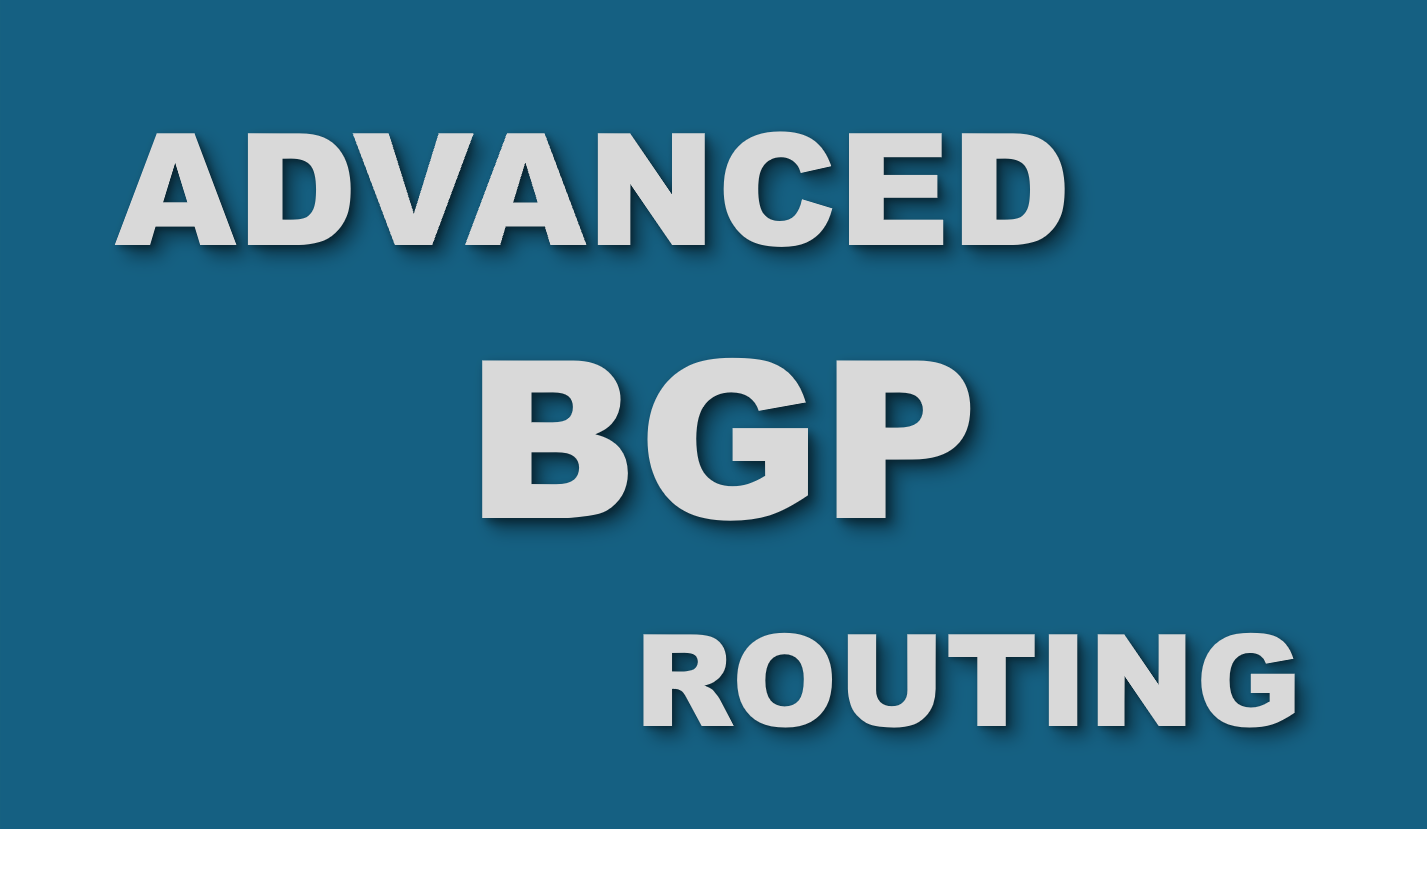
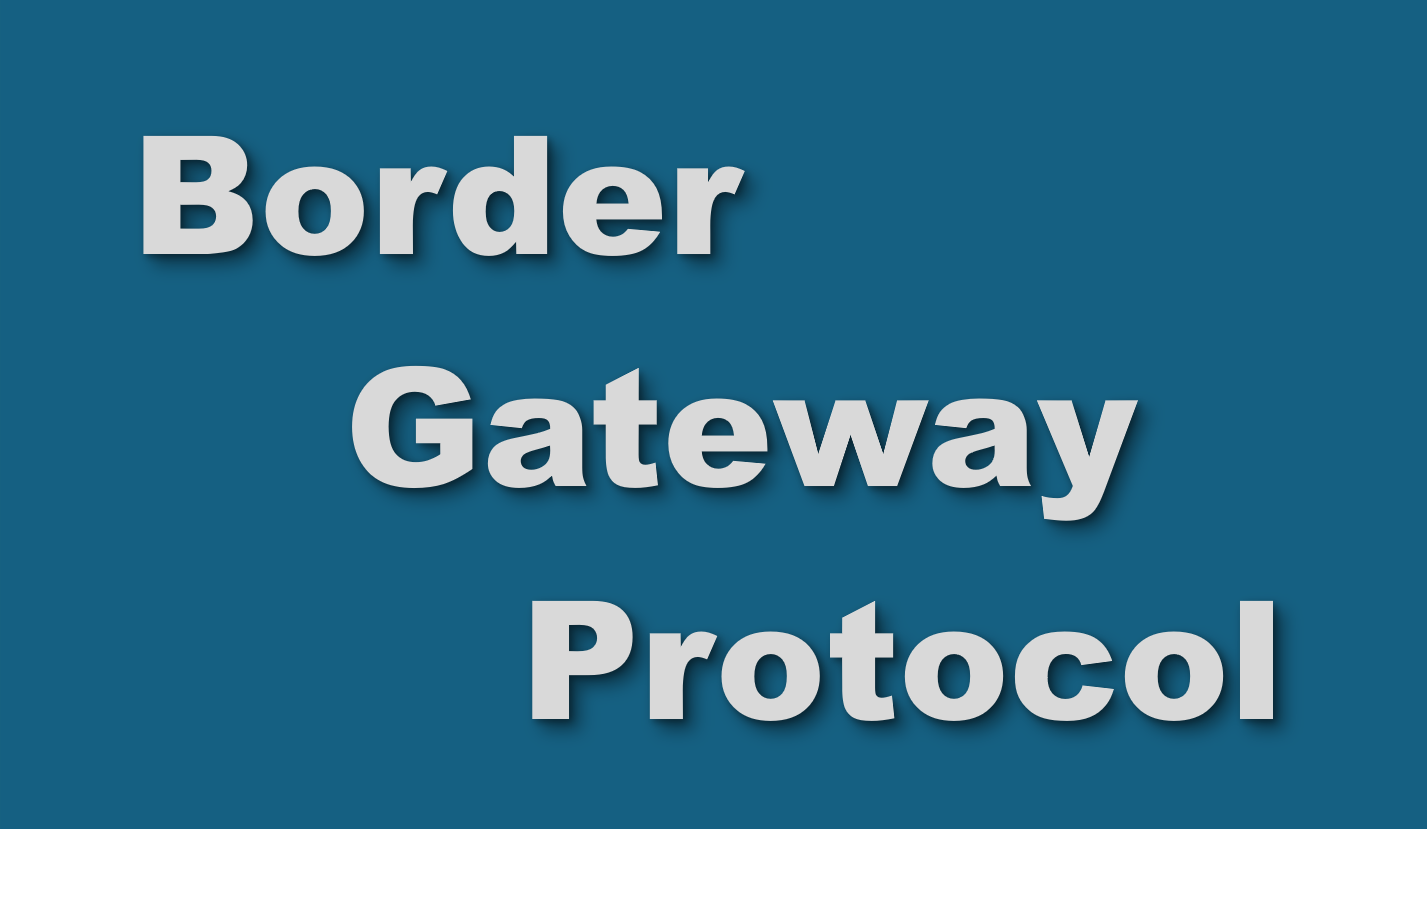
1

diff --git a/index.html b/index.html
@@ -52,8 +52,8 @@
                 <div class="card-img-area">
                     <img class="card-img" src="images/bgp-routing.png" alt="Card image cap">
                     <div class="card-body">
-                        <h4 class="card-title">Advanced</h4>
-                        <h4 class="card-title">BGP Routing</h4>
+                        <h4 class="card-title">Border Gateway</h4>
+                        <h4 class="card-title">Protocol - BGP</h4>
                         <p class="card-text">Advanced Routing with Border Gateway Protocol</p>
                         <a href="bgp-routing/" class="btn btn-primary">Coming soon</a>
                     </div>
